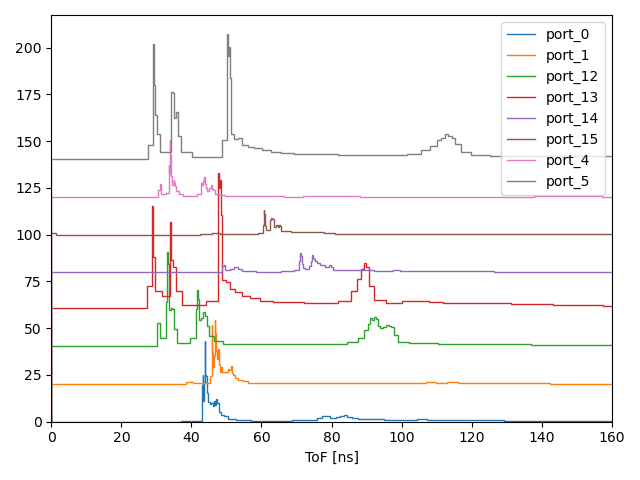
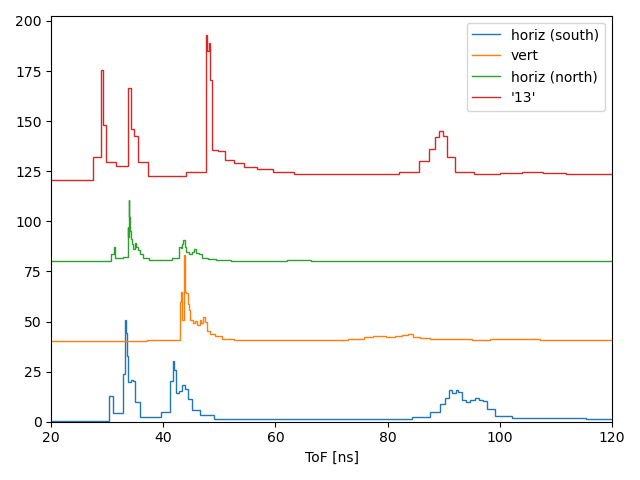
temp

diff --git a/src/plotCompareQuantNoquant.py b/src/plotCompareQuantNoquant.py
@@ -15,28 +15,95 @@ def main(fname):
         portkeys = [k for k in q.keys() if re.search('port',k)]
         if verbose: 
             _=[print(k) for k in portkeys]
-        for i,k in enumerate(portkeys):
+        labellist = []
+        portkeys = ['port_13','port_12','port_0','port_4']
+        i = 0
+        for k in portkeys:
+            plotk = False
             h = np.sum(q[k]['hist'][()],axis=1)
             qb = q[k]['qbins'][()]
             qdiff = qb[1:]-qb[:-1]
             print(np.min(qdiff))
-            plt.stairs((i*20.)+h/qdiff,(qb-qb[0])/8/6)
+            if re.search('port_4',k):
+                plotk=True
+                labellist += ['horiz (north)']
+            if re.search('port_0',k):
+                plotk=True
+                labellist += ['vert']
+            if re.search('port_12',k):
+                plotk=True
+                labellist += ['horiz (south)']
+            if re.search('port_13',k):
+                plotk=True
+                labellist += ['\'13\'']
+            if plotk:
+                plt.stairs((i*100.)+h/qdiff,(qb-qb[0])/8/6)
+                i += 1
         plt.xlabel('ToF [ns]')
         #plt.xlim(40,60)
-        plt.xlim(0,160)
-        plt.legend([k for k in portkeys])
+        plt.xlim(20,120)
+        plt.legend(labellist)
         plt.tight_layout()
-        plt.savefig('./figures/qbinsRecovered.png')
+        plt.savefig('./figures/qbinsRecovered_13_12_0_4.png')
         plt.show()
-        fig,axs = plt.subplots(1,2)
-        axs[0].pcolor(q['port_12']['hist'][()][:,::32].T,cmap='Greys',vmin=0,vmax=3)
+        fig,axs = plt.subplots(1,4)
+        axs[3].pcolor(q['port_12']['hist'][()][:,::32].T,cmap='Greys',vmin=0,vmax=3)
         axs[1].pcolor(q['port_0']['hist'][()][:,::32].T,cmap='Greys',vmin=0,vmax=3)
+        axs[2].pcolor(q['port_4']['hist'][()][:,::32].T,cmap='Greys',vmin=0,vmax=3)
+        axs[0].pcolor(q['port_13']['hist'][()][:,::32].T,cmap='Greys',vmin=0,vmax=3)
         axs[0].set_xlabel('qbins')
         axs[1].set_xlabel('qbins')
+        axs[2].set_xlabel('qbins')
+        axs[3].set_xlabel('qbins')
         axs[0].set_ylabel('shot number')
-        axs[0].set_title('horiz')
+        axs[3].set_title('horiz (south)')
         axs[1].set_title('vert')
-        plt.savefig('./figures/qbinsSnow_ports_12_0.png')
+        axs[2].set_title('horiz (north)')
+        axs[0].set_title('\'13\'')
+        plt.savefig('./figures/qbinsSnow_ports_13_12_0_4.png')
+        plt.show()
+
+        '''
+        N2O:
+        0V retardation on port 13.
+        25V retardation on port 5.
+        150V retardation on port 12.
+        175V retardation on port 4.
+        325V retardation on port 0.
+        350V retardation on port 1.
+        425V retardation on port 15.
+        450V retardation on port 14.
+        '''
+        portkeys = ['port_13','port_5','port_12','port_4','port_0','port_1','port_15','port_14']
+        rets = [0,25,150,175,325,350,425,450]
+        labellist = []
+        scale=1.5
+        for i,k in enumerate(portkeys):
+            if i >2:
+                scale=3
+            if i >5:
+                scale=10
+            h = np.sum(q[k]['hist'][()],axis=1)
+            qb = q[k]['qbins'][()]
+            qdiff = qb[1:]-qb[:-1]
+            plt.stairs((i*100.)+(scale)*h/qdiff,(qb-qb[0])/8/6)
+            labellist += ['%s,ret=%i'%(k,rets[i])]
+        plt.plot([29.5,29.5,30,30],[50,75,75,100],'-',color='k')
+        plt.plot([30,30,34,34],[150,175,175,200],'-',color='k')
+        plt.plot([34,34,35,35],[250,275,275,300],'-',color='k')
+        plt.plot([35,35,45,45],[350,375,375,400],'-',color='k')
+        plt.plot([45,45,49,49],[450,475,475,500],'-',color='k')
+        plt.plot([49,49,64,64],[550,575,575,600],'-',color='k')
+        plt.plot([64,64,75,75],[650,675,675,700],'-',color='k')
+        plt.plot([35,36],[50,100],'-',color='k')
+        plt.plot([36,43],[150,200],'-',color='k')
+        plt.plot([43,45],[250,300],'-',color='k')
+        plt.plot([45,80],[350,400],'-',color='k')
+        plt.xlabel('ToF [ns]')
+        plt.xlim(20,120)
+        plt.tight_layout()
+        plt.legend(labellist)
+        plt.savefig('./figures/qbinsRecovered_retorder.png')
         plt.show()
 
 
